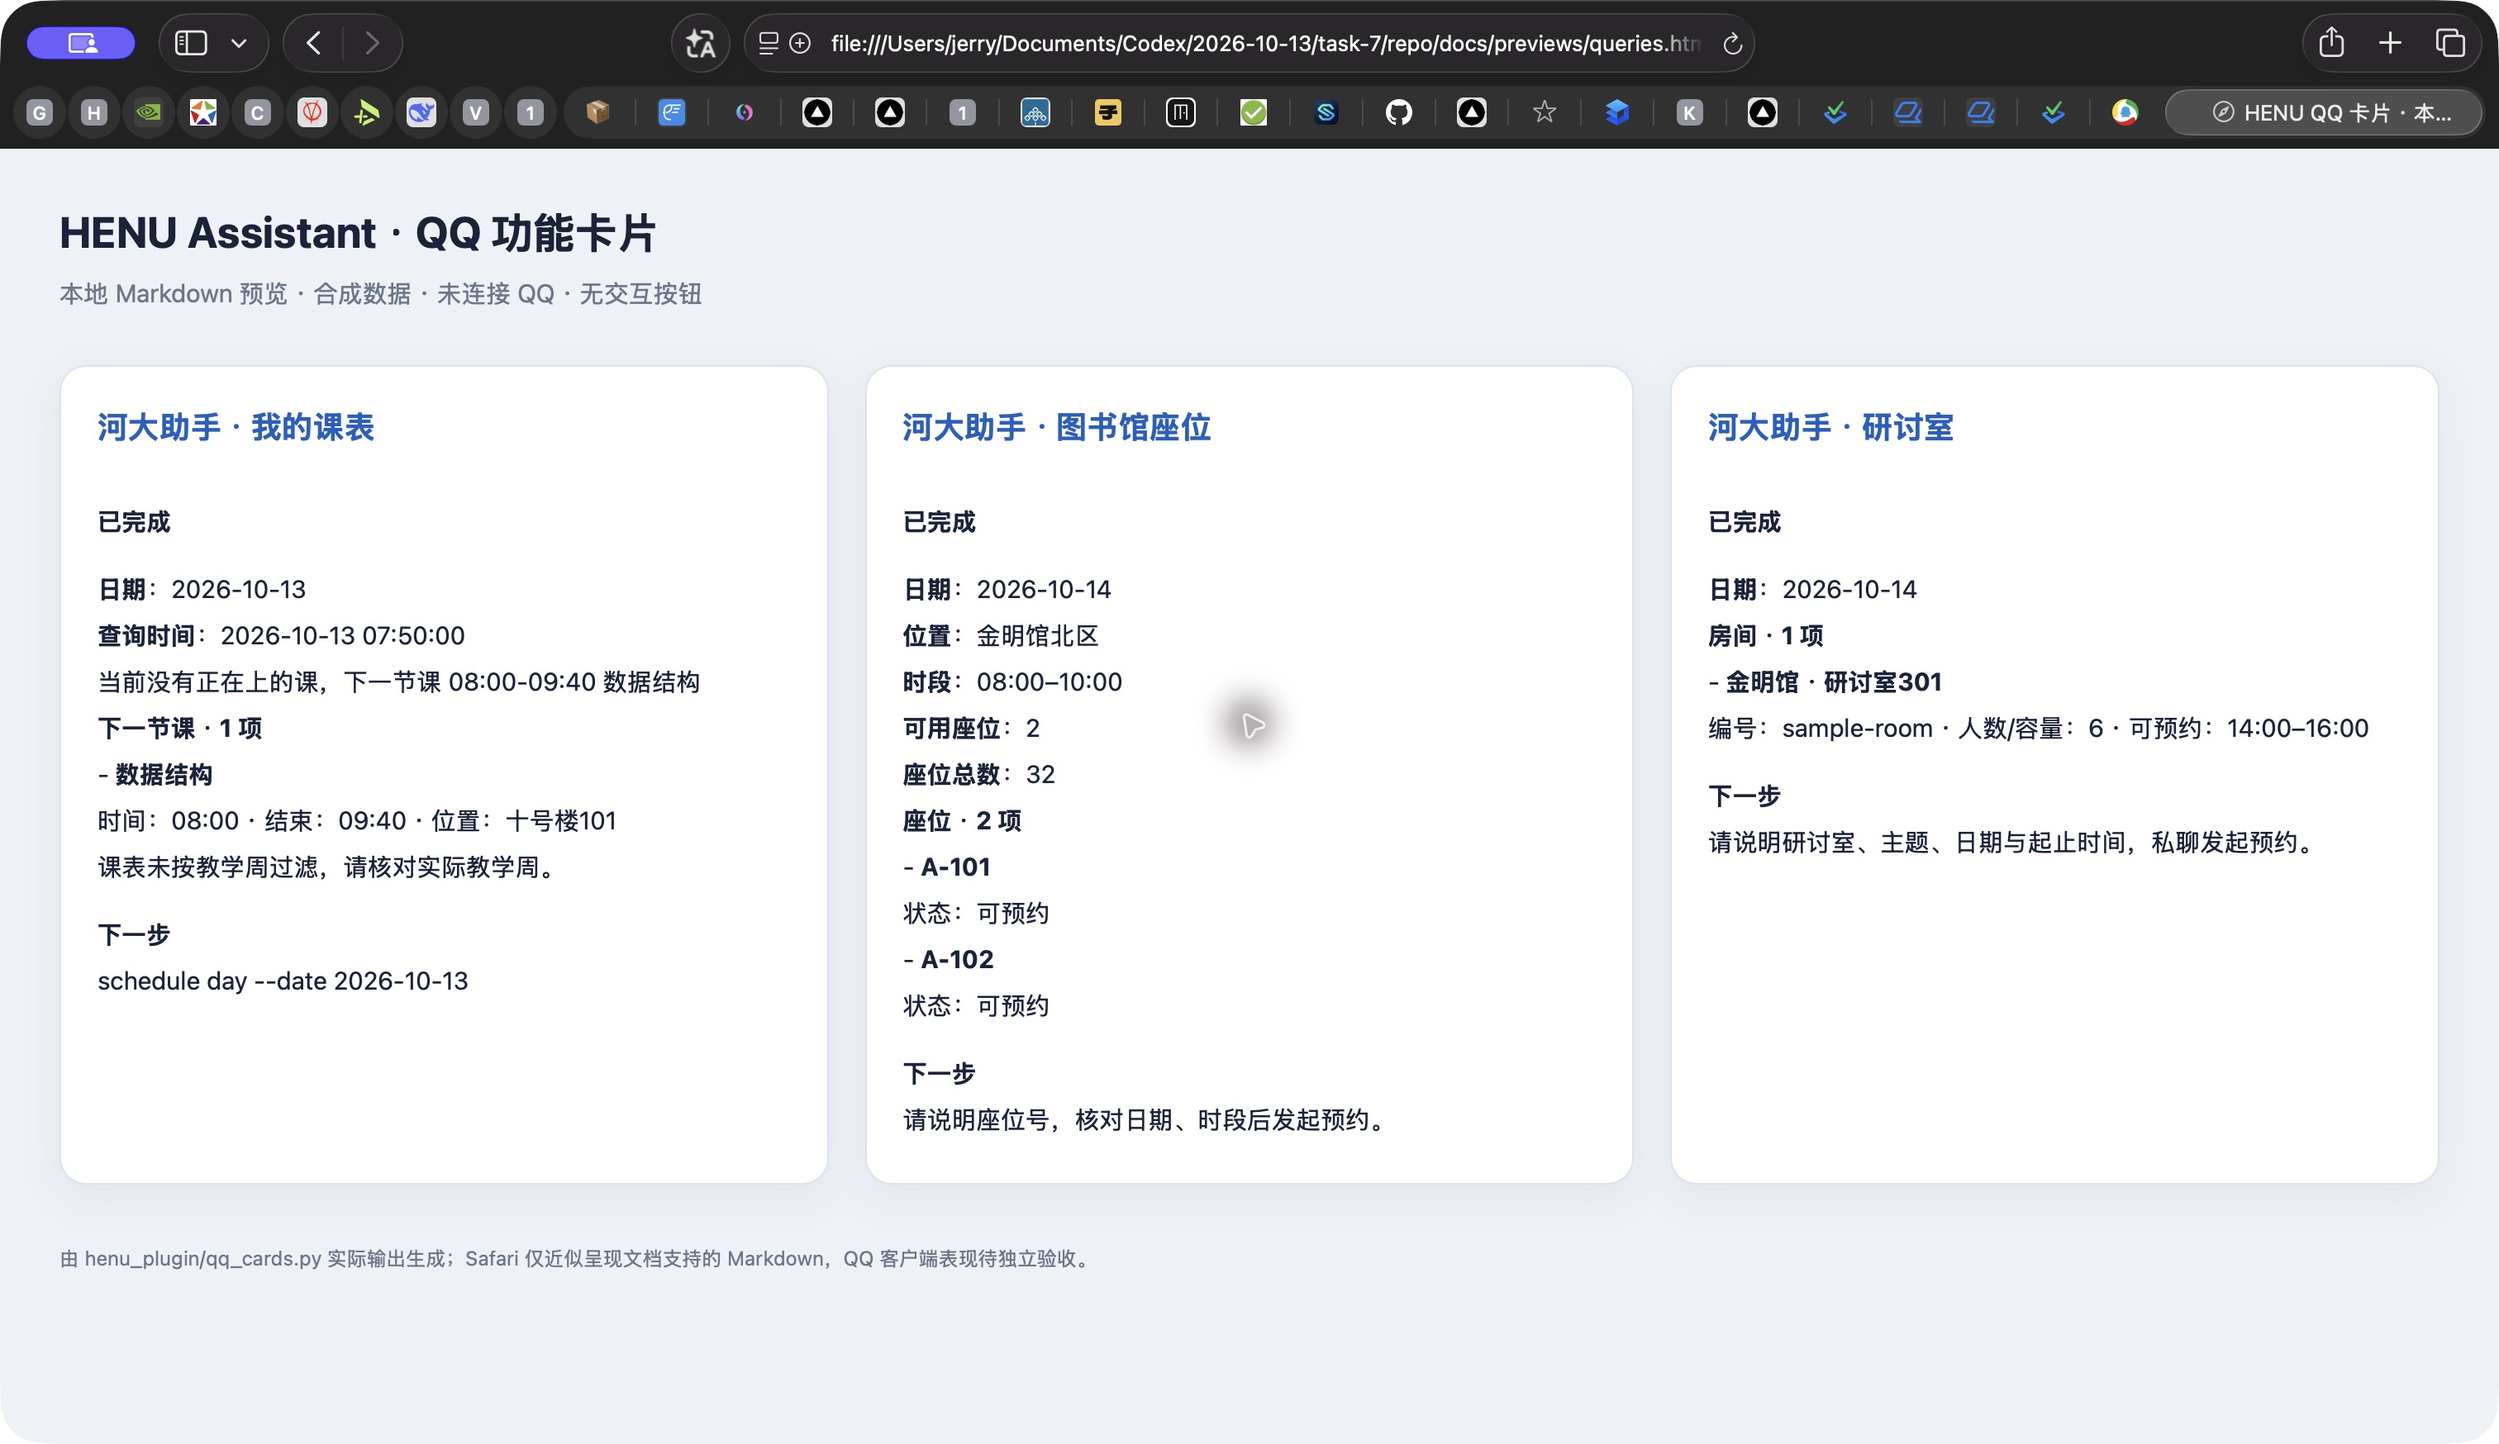
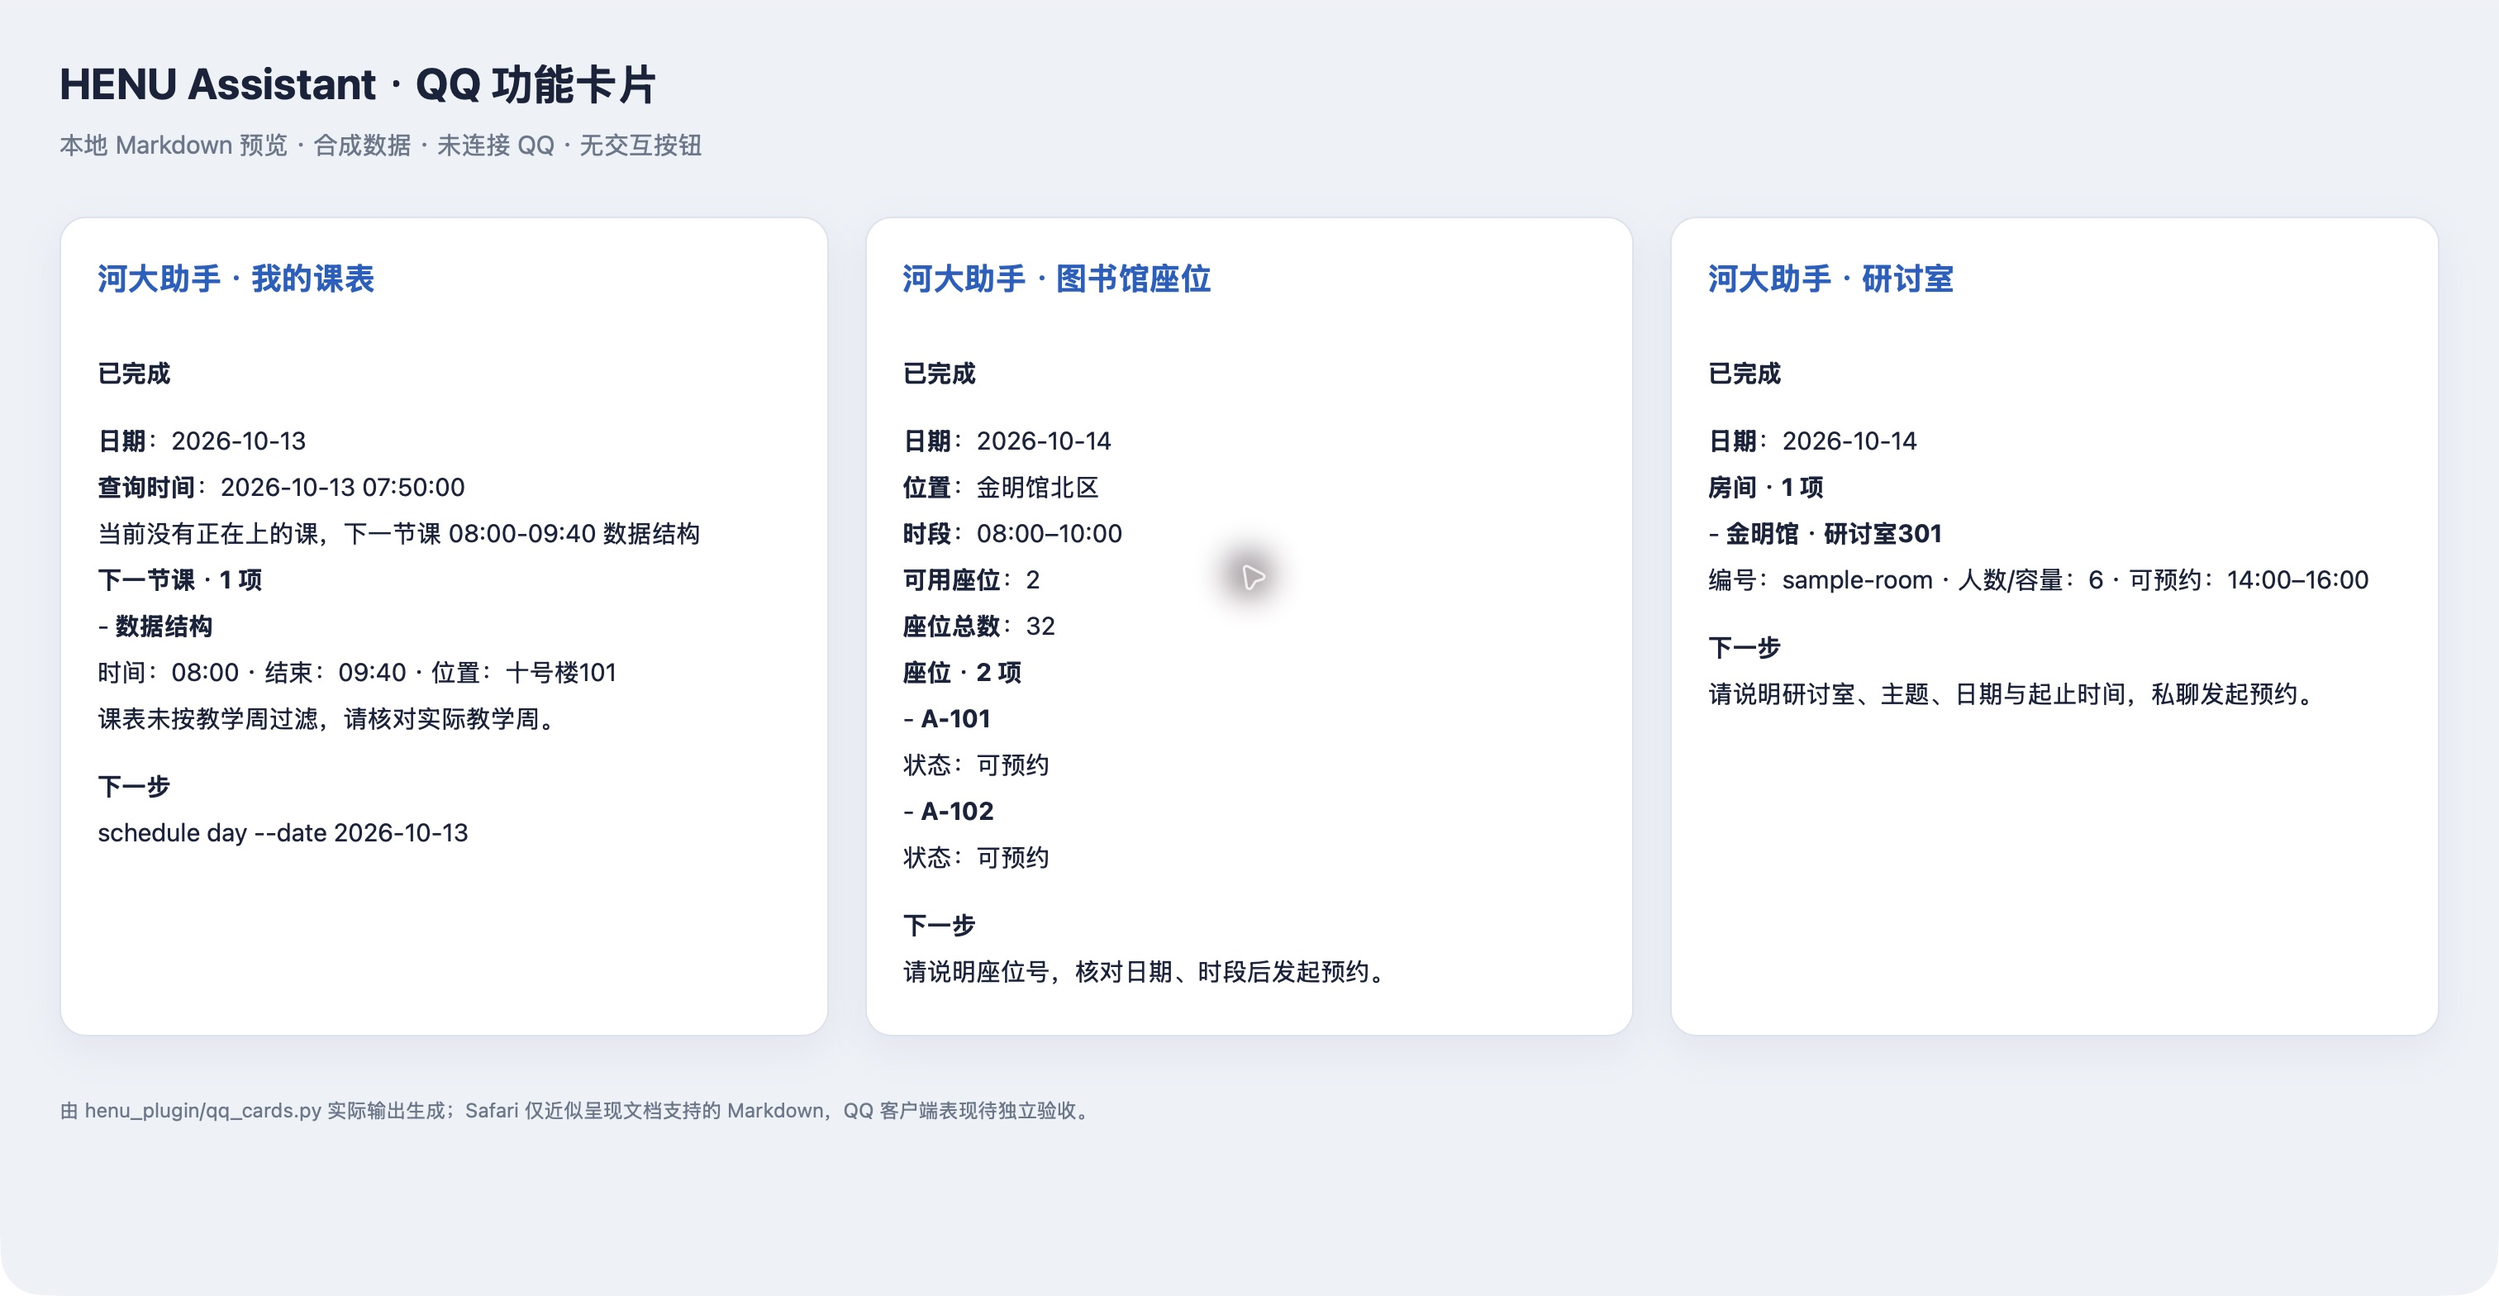
fix: preserve full QQ results and confirmation delivery boundaries

diff --git a/tests/test_qq_cards.py b/tests/test_qq_cards.py
@@ -129,3 +129,83 @@ def test_food_json_uses_public_summary_without_raw_actor_metadata():
     page = result_card({"success": True, "reply_text": '我的投稿: {"posts":[{"shop":{"name":"面馆"},"campus":"金明","author":"secret-actor"}]}'}, "food").pages()[0]
     assert "面馆" in page and "金明" in page
     assert "secret-actor" not in page and '"posts"' not in page
+
+
+def test_same_request_multiple_tools_are_preserved_and_next_request_replaces():
+    cards = CardCache()
+    owner = ("bot", "person", "alice", "alice")
+    cards.stage(owner, 1, "schedule day", [PREFIX + "课表\n课程A"])
+    cards.stage(owner, 1, "library seats", [PREFIX + "座位\n座位B"])
+    assert "课程A" in cards.page(owner, "卡片第 1 页")
+    assert "座位B" in cards.page(owner, "下一页")
+    cards.stage(owner, 2, "library current", [PREFIX + "预约\n记录C"])
+    assert "记录C" in cards.page(owner, "卡片第 1 页")
+    assert "共 1 页" in cards.page(owner, "下一页")
+
+
+def test_paging_with_attachment_is_new_input_and_send_timeout_is_not_retried():
+    from langbot_plugin.api.entities.builtin.platform.message import Image, Plain
+    from components.event_listener.qq_cards import QQCardsListener
+    listener = QQCardsListener.__new__(QQCardsListener)
+    listener.plugin = SimpleNamespace()
+    event = SimpleNamespace(launcher_type="person", launcher_id="alice", sender_id="alice", message_chain=SimpleNamespace(root=[Plain(text="下一页"), Image(base64="fixture-image")]))
+    ctx = SimpleNamespace(event=event, get_bot_uuid=AsyncMock(return_value="bot"), prevent_default=Mock(), prevent_postorder=Mock(), reply=AsyncMock(side_effect=TimeoutError("unknown delivery")))
+    assert asyncio.run(listener.paging(ctx)) is False
+    ctx.reply.assert_not_awaited()
+    event.message_chain.root.pop()
+    assert asyncio.run(listener.paging(ctx)) is True
+    assert ctx.reply.await_count == 1
+
+
+def test_real_help_keeps_all_commands_before_compacting(monkeypatch):
+    from components.cli_tools.henu_cli import HenuCli
+    from components.cli_tools.henu_cli_safe import HenuCliSafe
+    from henu_plugin.cli import build_help_payload
+    from henu_plugin.qq_cards import cache, scope, stage_card
+    proxy = SimpleNamespace(get_bot_uuid=AsyncMock(return_value="bot"), set_query_var=AsyncMock())
+    monkeypatch.setattr("langbot_plugin.api.proxies.query_based_api.QueryBasedAPIProxy", lambda **kwargs: proxy)
+    plugin = SimpleNamespace(plugin_runtime_handler=Mock())
+    session = SimpleNamespace(launcher_type="person", launcher_id="alice", sender_id="alice")
+    async def base_call(self, params, session, query_id):
+        result = {"success": True, "cli": {"mode": "help", "command": "help yunfz", "topic": "yunfz"}, **build_help_payload("yunfz")}
+        await stage_card(plugin, session, query_id, result)
+        self._prepare_delivery_result(result)
+        self._normalize_for_qq_delivery(result)
+        result["_henu_card_captured"] = True
+        return result
+    monkeypatch.setattr(HenuCli, "call", base_call)
+    tool = HenuCliSafe.__new__(HenuCliSafe)
+    tool.plugin = plugin
+    delivered = asyncio.run(tool.call({"command": "help yunfz"}, session, 1))
+    assert "_henu_card_captured" not in delivered
+    all_pages = "\n".join(cache(plugin).entries[scope("bot", session)][1])
+    assert "yunfz collection statistics" in all_pages
+
+
+def test_actual_course_planner_schema_keeps_courses_meetings_and_ids():
+    from henu_mcp.core.course_planner import generate_ranked_plans
+    result = generate_ranked_plans([[{"id": "math-a", "name": "高等数学", "meetings": [{"weekday": 2, "periods": [1, 2], "weeks": [4, 5], "room": "十号楼101"}]}]], [], {}, 1)
+    all_pages = "\n".join(result_card(result, "course_selection_plan").pages())
+    for expected in ("高等数学", "math-a", "星期2", "第1、2节", "第4、5周", "十号楼101"):
+        assert expected in all_pages
+
+
+def test_actual_empty_classroom_nested_matrix_occupancy_and_freshness():
+    from campus_core.empty_classroom.models import Freshness
+    freshness = Freshness(strategy="cache_only", source="xk_room_schedule", fetched_at="2026-10-12T10:00:00+08:00", parsed_at="2026-10-12T10:01:00+08:00", ttl_seconds=300, age_seconds=86400, stale=True, live_checked=False).to_dict()
+    old = result_card({"success": True, "rooms": [{"roomName": "十号楼101"}], "freshness": freshness}, "empty_classroom_query").pages()[0]
+    assert "缓存已过期" in old and "2026-10-12" in old and "未请求上游" in old
+    matrix = {"success": True, "data": {"week": 8, "dayOfWeek": 2, "periods": [{"period": 2, "periodName": "第二大节", "total": 1, "rooms": [{"roomName": "十号楼102", "roomId": "room-102", "capacity": 60}]}]}}
+    page = result_card(matrix, "empty_classroom_query").pages()[0]
+    assert "第二大节" in page and "十号楼102" in page and "room-102" in page and "教学周" in page
+    occupancy = {"success": True, "data": {"roomName": "十号楼103", "week": 8, "period": 3, "status": "occupied", "courses": [{"courseName": "大学英语", "sectionText": "5-6节", "weekExpr": "第1-18周"}]}}
+    page = result_card(occupancy, "empty_classroom_query").pages()[0]
+    assert "大学英语" in page and "5-6节" in page and "十号楼103" in page
+
+
+def test_food_detail_keeps_existing_public_description_and_dishes():
+    detail = {"post": {"shop": {"name": "面馆"}, "campus": "jinming", "tier": "hang", "review_text": "面筋道汤清爽", "price_reference": "12元", "hours_reference": "10:00–21:00", "dishes": [{"name": "刀削面", "price": "12元", "reason": "汤清爽"}], "author": "hidden-author", "images": ["https://private-image.test"]}}
+    page = "\n".join(result_card({"success": True, "reply_text": "详情：" + json.dumps(detail, ensure_ascii=False)}, "food").pages())
+    for expected in ("面筋道汤清爽", "12元", "10:00–21:00", "刀削面", "汤清爽"):
+        assert expected in page
+    assert "hidden-author" not in page and "private-image" not in page

diff --git a/components/event_listener/qq_cards.py b/components/event_listener/qq_cards.py
@@ -2,9 +2,7 @@ from __future__ import annotations
 
 from langbot_plugin.api.definition.components.common.event_listener import EventListener
 from langbot_plugin.api.entities import events
-from langbot_plugin.api.entities.builtin.platform.message import Plain
-
-from henu_plugin.qq_cards import cache, card_chain, is_page_request, scope, text_card
+from henu_plugin.qq_cards import cache, card_chain, page_request_text, scope, text_card
 
 
 class QQCardsListener(EventListener):
@@ -41,17 +39,24 @@ class QQCardsListener(EventListener):
 
     async def paging(self, ctx):
         chain = getattr(getattr(ctx.event, "message_chain", None), "root", [])
-        text = "".join(item.text for item in chain if isinstance(item, Plain)).strip()
-        if not is_page_request(text):
+        text = page_request_text(chain)
+        if not text:
             return False
         ctx.prevent_default()
         ctx.prevent_postorder()
         try:
             key = scope(str(await ctx.get_bot_uuid() or ""), ctx.event)
             page = cache(self.plugin).page(key, text) if key else text_card("无法翻页", "无法确认当前会话，请重新查询。")[0]
-            await ctx.reply(card_chain(page))
-            if key:
-                await cache(self.plugin).delivered(key, page)
         except Exception:
-            await ctx.reply(card_chain("卡片读取失败，请重新查询。"))
+            key = None
+            page = "卡片读取失败，请重新查询。"
+        try:
+            await ctx.reply(card_chain(page))
+        except Exception:
+            return True  # The first send may already have arrived; never repeat.
+        if key:
+            try:
+                await cache(self.plugin).delivered(key, page)
+            except Exception:
+                pass  # No complete-preview acknowledgment, so confirmation stays blocked.
         return True

diff --git a/components/cli_tools/henu_cli_safe.py b/components/cli_tools/henu_cli_safe.py
@@ -36,20 +36,21 @@ class HenuCliSafe(HenuCli):
             result = await super().call(params, session, query_id)
         # Normal service results were captured in full before compaction. Early
         # confirmation/error branches and persistence warnings need this hook.
-        cli = result.get("cli", {}) if isinstance(result, dict) else {}
-        if isinstance(result, dict) and (cli.get("mode") != "exec" or result.get("external_committed")):
+        captured = result.pop("_henu_card_captured", False) if isinstance(result, dict) else False
+        if isinstance(result, dict) and (not captured or result.get("external_committed")):
             await self._publish_delivery_result(result, session, query_id)
         return result
 
-    async def _publish_delivery_result(self, result: Any, session: Any, query_id: int) -> None:
+    async def _publish_delivery_result(self, result: Any, session: Any, query_id: int) -> bool:
         if not isinstance(result, dict):
-            return
+            return False
         try:
             await stage_card(self.plugin, session, query_id, result)
+            return True
         except Exception:
             # Query APIs are optional presentation infrastructure. The existing
             # readable tool result remains the fallback, without logging data.
-            return
+            return False
 
     def _prepare_delivery_result(self, result: Any) -> None:
         if not isinstance(result, dict):

diff --git a/components/cli_tools/base.py b/components/cli_tools/base.py
@@ -107,11 +107,13 @@ class BaseHenuTool(Tool):
 
         await sync_after_commit(self.plugin, storage_key, result)
 
-        await self._publish_delivery_result(result, session, query_id)
+        card_captured = await self._publish_delivery_result(result, session, query_id)
         self._prepare_delivery_result(result)
         await self._refresh_after_sensitive_success(query_id, params, result)
         self._strip_internal_fields(result)
         self._normalize_for_qq_delivery(result)
+        if card_captured and isinstance(result, dict):
+            result["_henu_card_captured"] = True
         return result
 
     def should_preload_runtime_context(self, params: dict[str, Any]) -> bool:
@@ -121,9 +123,9 @@ class BaseHenuTool(Tool):
         """Hook for tool-specific summaries before the generic size budget applies."""
         return
 
-    async def _publish_delivery_result(self, result: Any, session: Any, query_id: int) -> None:
+    async def _publish_delivery_result(self, result: Any, session: Any, query_id: int) -> bool:
         """Presentation hook before model payload compaction."""
-        return
+        return False
 
     async def _load_identity_hint(self, query_id: int) -> dict[str, Any]:
         handler = getattr(self.plugin, "plugin_runtime_handler", None)

diff --git a/tests/test_food_drafts.py b/tests/test_food_drafts.py
@@ -58,6 +58,20 @@ def test_long_card_preview_cannot_publish_until_all_pages_are_delivered(monkeypa
         await chat.message("确认发布")
         assert len(calls) == 1
     asyncio.run(run())
+
+
+def test_paging_text_with_picture_cannot_publish_the_previous_preview(monkeypatch, food_http, tmp_path):
+    settings, calls = food_http
+    monkeypatch.setenv("HENU_FOOD_DRAFT_DB", str(tmp_path / "drafts.sqlite3"))
+    monkeypatch.setattr("components.cli_tools.henu_food.kit_settings", lambda: None)
+    async def run():
+        chat = await Chat().start(monkeypatch, settings)
+        await chat.message("整理草稿")
+        await chat.prepare()
+        await chat.message("下一页", images=[PNG])
+        await chat.message("确认发布")
+        assert calls == [] and "还有投稿内容" in chat.replies[-1]
+    asyncio.run(run())
[1 lines of base64/hex data omitted]
 
 

diff --git a/components/cli_tools/henu_food.py b/components/cli_tools/henu_food.py
@@ -19,7 +19,7 @@ from henu_plugin.food_drafts import (
     publication_receipt,
 )
 from henu_plugin.kit_client import KitError, kit_request, kit_settings
-from henu_plugin.qq_cards import PRIVATE_NOTICE, cache, card_chain, is_page_request, reply_card, scope as card_scope, stage_card, text_card
+from henu_plugin.qq_cards import PRIVATE_NOTICE, cache, card_chain, page_request_text, reply_card, scope as card_scope, stage_card, text_card
 
 ACTIONS = {
     "create": (
@@ -144,7 +144,7 @@ class HenuFood(Tool):
         text = "".join(
             item.text for item in chain if isinstance(item, pm.Plain)
         ).strip()
-        if is_page_request(text):
+        if page_request_text(chain):
             return  # Read-only paging must not dirty a pending Food draft.
         kind = getattr(event.launcher_type, "value", event.launcher_type)
         if kind != "person":
